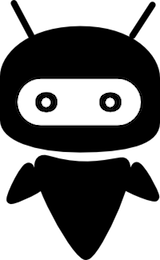
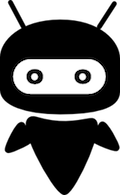
#15958 (added) Intent blankslate.

diff --git a/webapp/app/javascript/framework/components/_blankslate.scss b/webapp/app/javascript/framework/components/_blankslate.scss
@@ -6,13 +6,12 @@
   align-items: center;
 
   .blankslate__illustration{
-    margin-right: 3em;
+    margin-right: 2em;
     img{
-      max-width: 100px;
+      max-width: 80px;
     }
   }
   .blankslate__content{
-
     .separator{
       margin: 2em 0;
       border-top: 1px solid #ddd;
